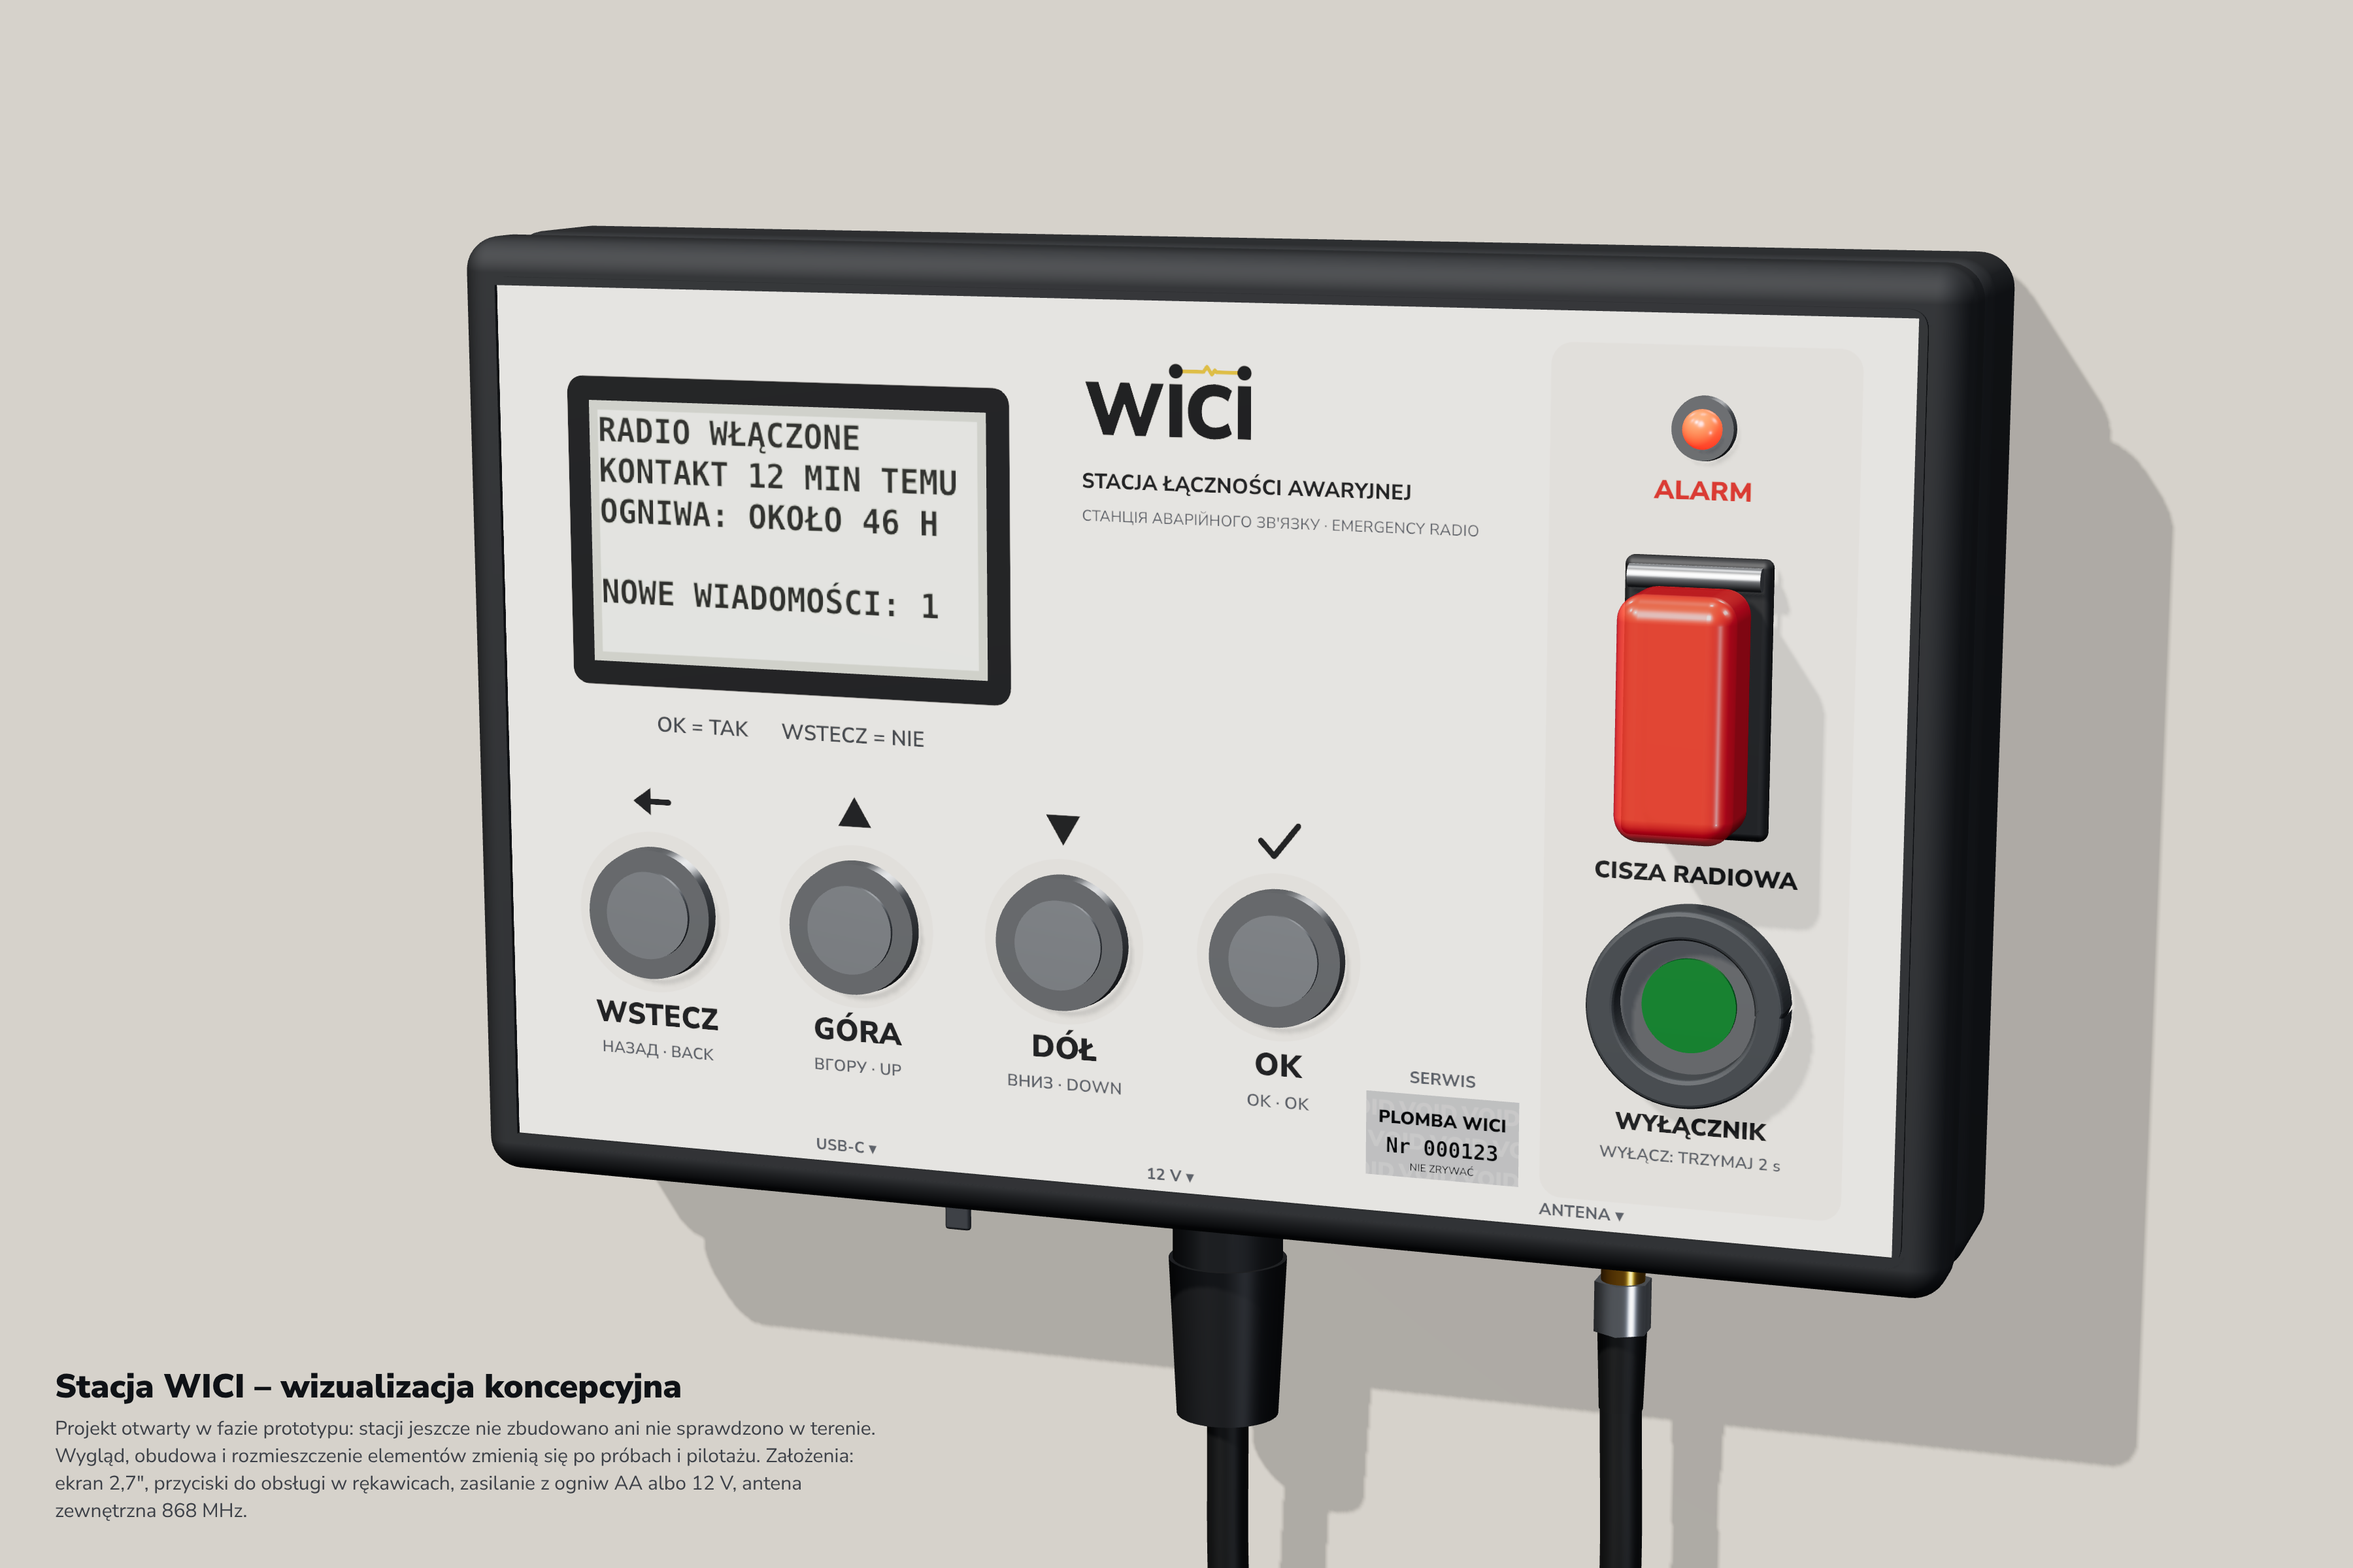
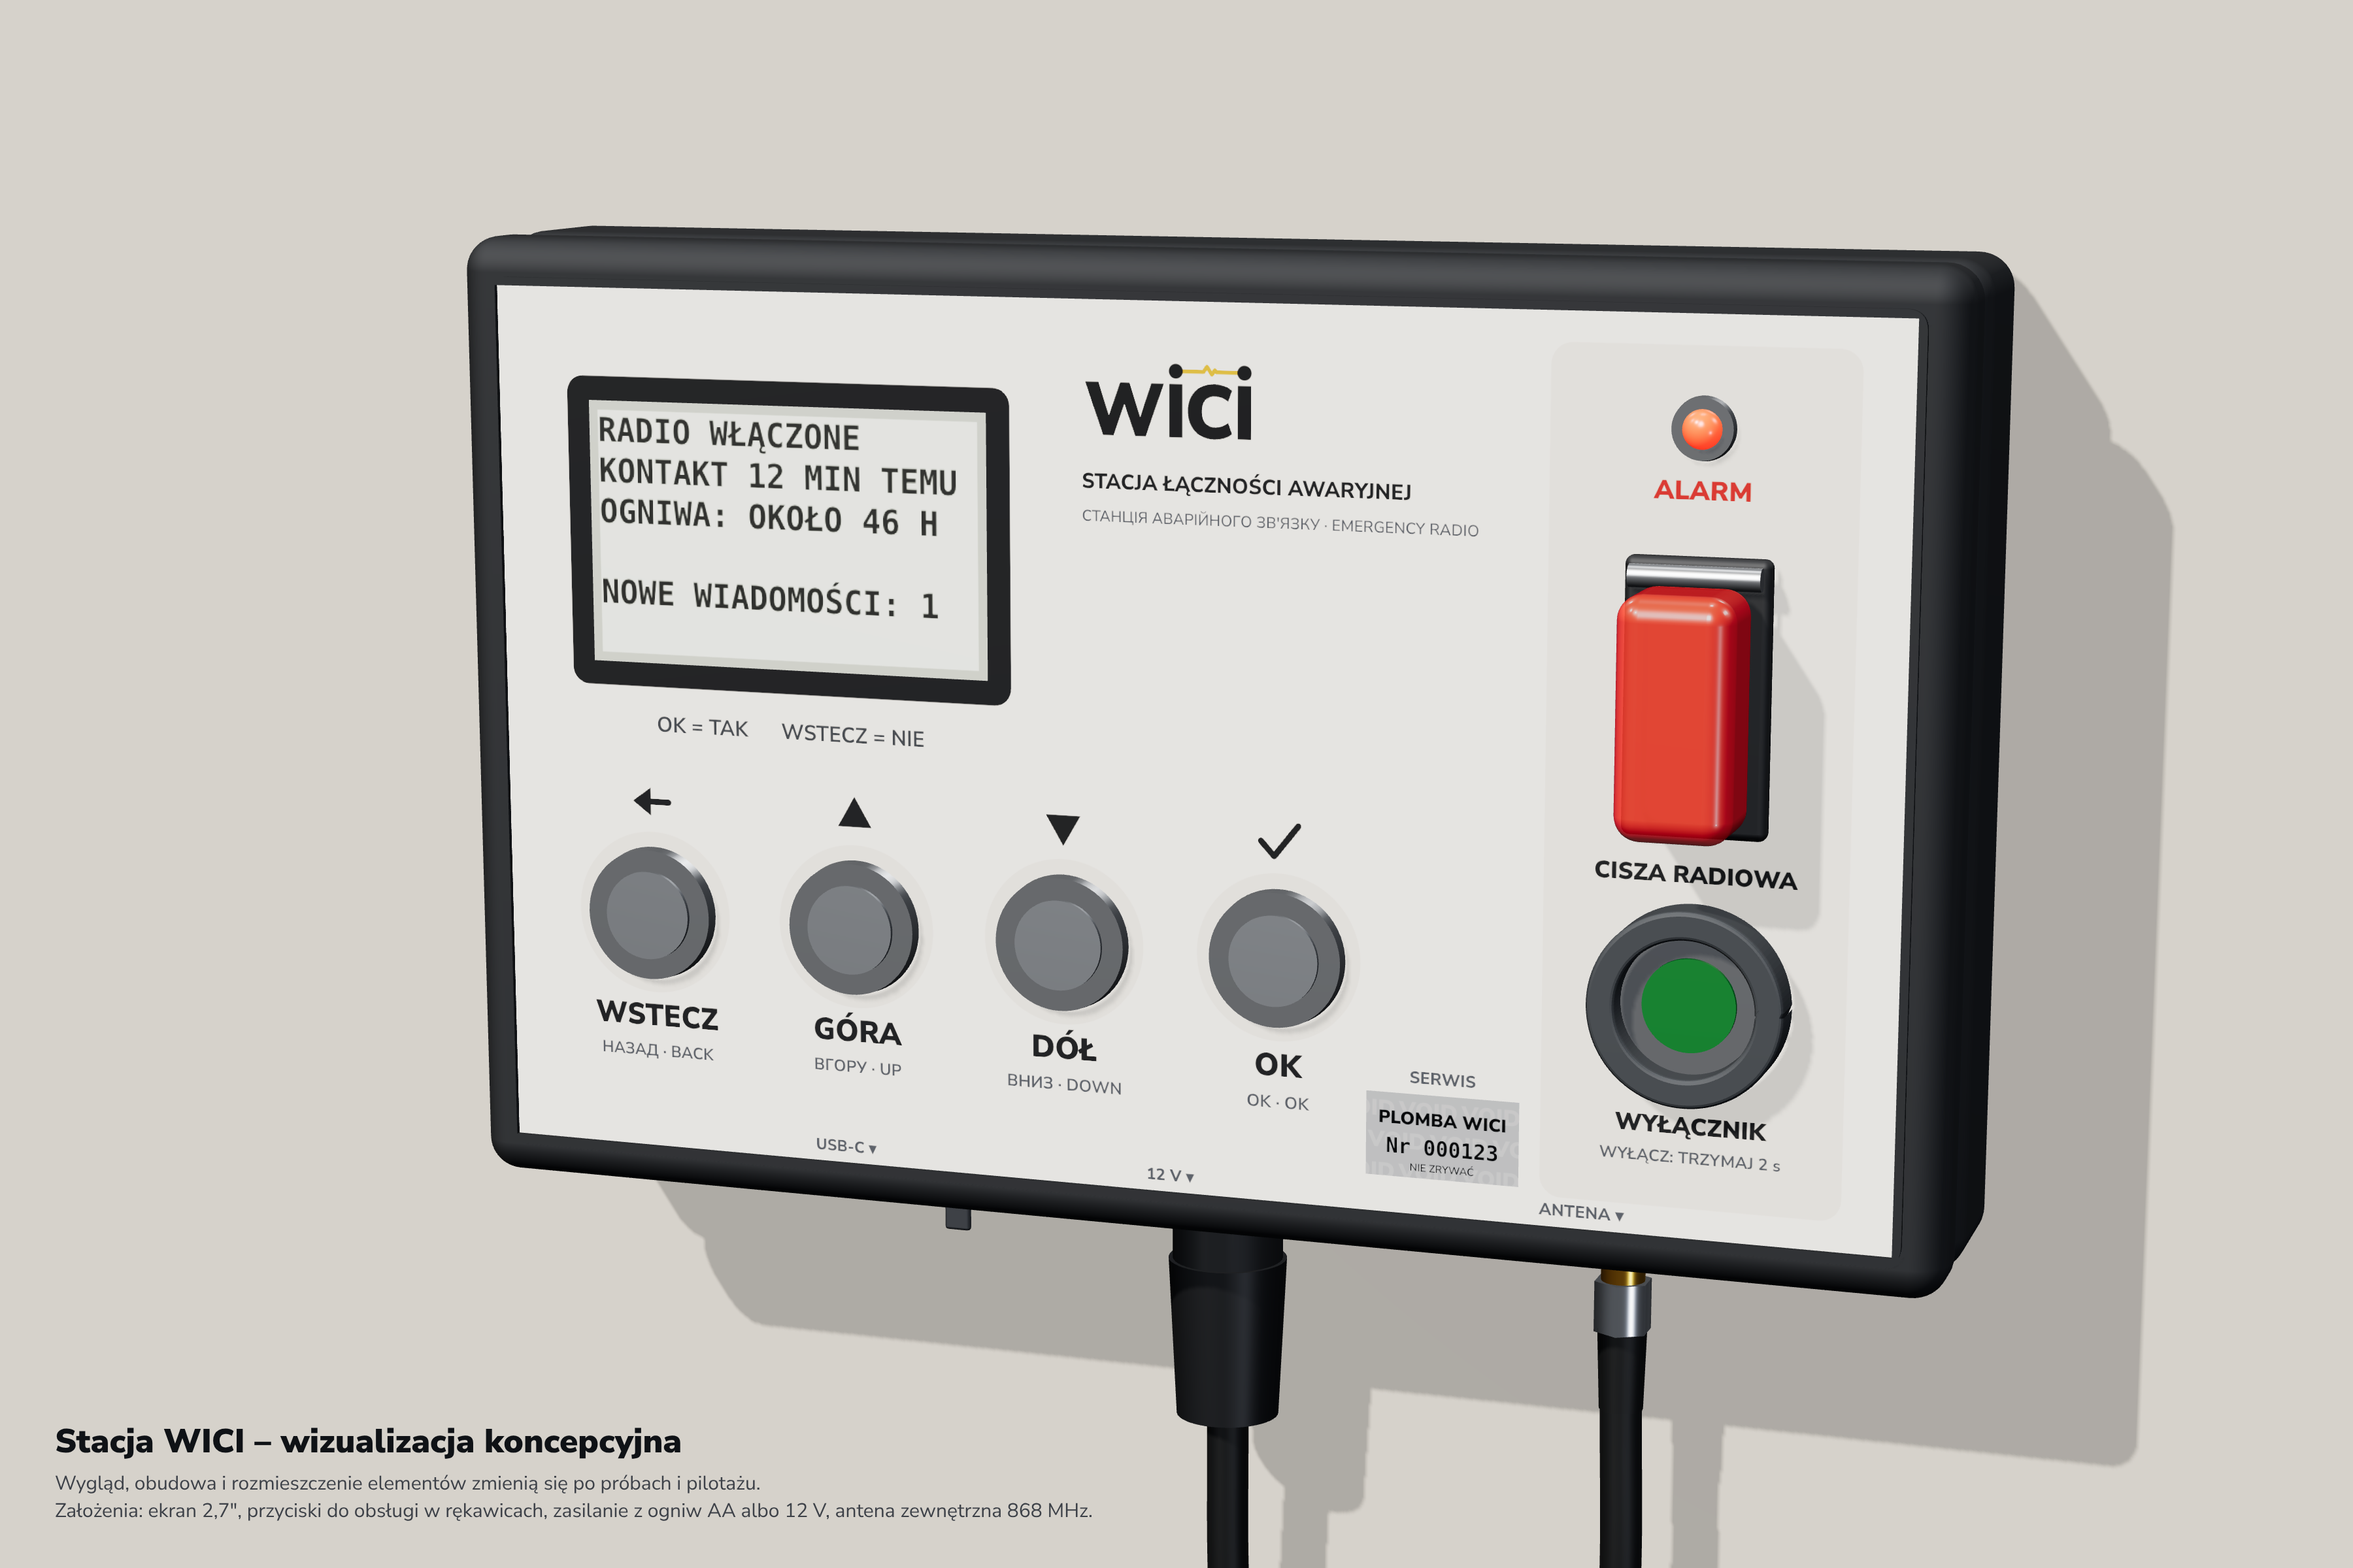
Materials render caption: drop the prototype sentence, assumptions on their own line
Claude-Session: https://claude.ai/code/session_01C14MPViLTkhq6RZ5PR56Cy

Changed region(s): [[0.0, 0.875, 0.3733, 0.9688]]

diff --git a/hardware/obudowa/render/stacja.html b/hardware/obudowa/render/stacja.html
@@ -16,7 +16,7 @@ html, body { margin: 0; background: #d9d4cb; overflow: hidden; font-family: "Nun
 #caption.side span { max-width: 600px; }
 #caption.material { top: auto; bottom: 44px; left: 56px; }
 #caption.material b { font-size: 34px; }
-#caption.material span { font-size: 20px; max-width: 860px; line-height: 1.4; }
+#caption.material span { font-size: 20px; max-width: 1100px; line-height: 1.4; white-space: pre-line; }
 </style>
 <script type="importmap">
 { "imports": {
@@ -288,8 +288,7 @@ renderer.render(scene, camera);
 if (VIEW === "materialy") {
   document.querySelector("#caption b").textContent = "Stacja WICI – wizualizacja koncepcyjna";
   document.querySelector("#caption span").textContent =
-    "Projekt otwarty w fazie prototypu: stacji jeszcze nie zbudowano ani nie sprawdzono w terenie. " +
-    "Wygląd, obudowa i rozmieszczenie elementów zmienią się po próbach i pilotażu. " +
+    "Wygląd, obudowa i rozmieszczenie elementów zmienią się po próbach i pilotażu.\n" +
     "Założenia: ekran 2,7\", przyciski do obsługi w rękawicach, zasilanie z ogniw AA albo 12 V, antena zewnętrzna 868 MHz.";
 } else {
   document.querySelector("#caption b").textContent =
